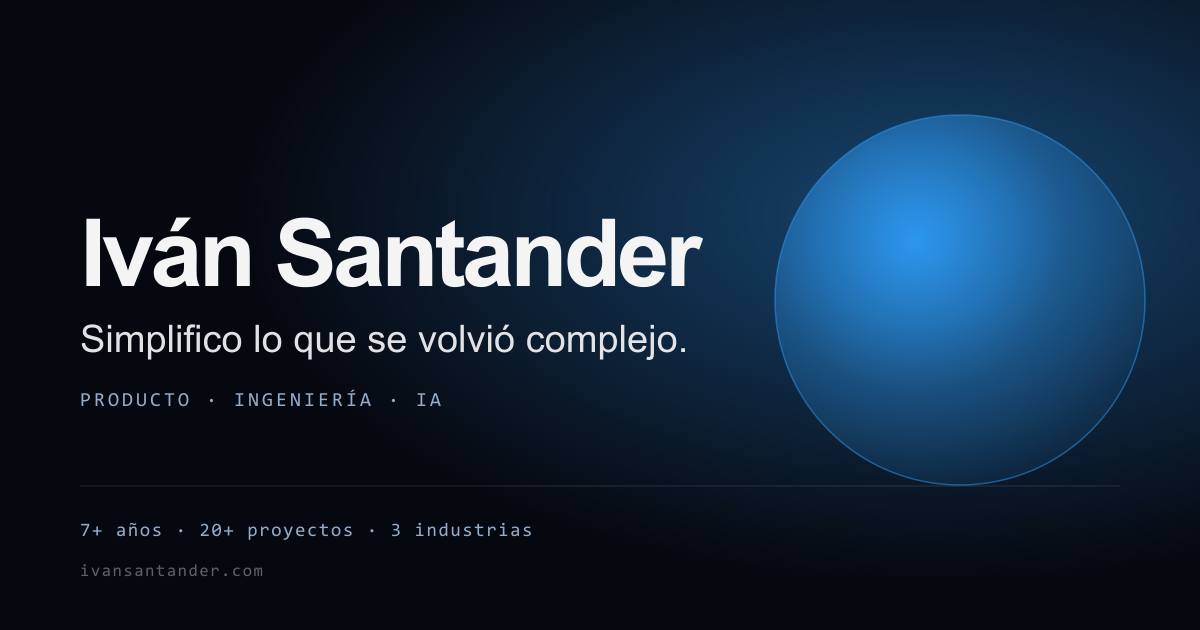
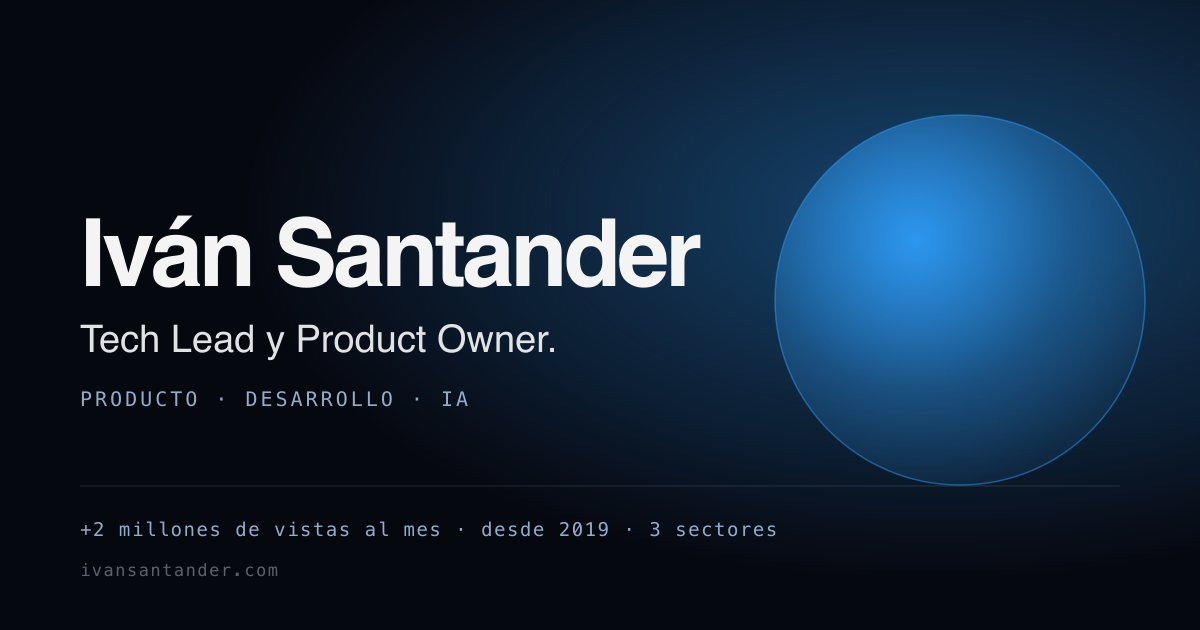
portada: Desarrollo en lugar de Ingeniería; imagen OG igual a la portada

diff --git a/docs/BITACORA.md b/docs/BITACORA.md
@@ -370,3 +370,14 @@ en escala de grises y toman color al pasar el mouse o con foco: juntas, las
 paletas de cada caso se veían revueltas. Fuera "12 casos" del hero y de "Sobre
 mí" (crecerá); en su lugar "3 sectores". "+2 millones" se parte en "+2" y
 "millones de vistas al mes" para que no rompa la fila de cifras.
+
+---
+
+## 2026-11-22 — "Ingeniería" fuera del rol
+
+**Decisión (Iván):** no es ingeniero de título, así que la línea del hero pasa de
+"Producto · Ingeniería · IA" a "Producto · Desarrollo · IA" (EN: "Product ·
+Development · AI"). En la misma pasada, la imagen OG (`gen-og.mjs`) se iguala a la
+portada: frase "Tech Lead y Product Owner." y cifras "+2 millones de vistas al mes ·
+desde 2019 · 3 sectores" (seguía con "Simplifico lo que se volvió complejo." y
+"7+ años · 20+ proyectos · 3 industrias").

diff --git a/site/src/content/pages/home.es.md b/site/src/content/pages/home.es.md
@@ -11,7 +11,7 @@ description: "Tech Lead y Technical Product Owner. Arquitectura, liderazgo técn
 
 **statement:** Tech Lead y Product Owner.
 
-**role:** Producto · Ingeniería · IA
+**role:** Producto · Desarrollo · IA
 
 **lead:**
 Simplifico sistemas en producción que crecieron más rápido que su equipo, sin frenar las entregas. Por fuera del trabajo construyo productos propios.

diff --git a/site/src/content/pages/home.en.md b/site/src/content/pages/home.en.md
@@ -11,7 +11,7 @@ description: "Tech Lead and Technical Product Owner. Architecture, technical lea
 
 **statement:** Tech Lead and Product Owner.
 
-**role:** Product · Engineering · AI
+**role:** Product · Development · AI
 
 **lead:**
 I simplify production systems that grew faster than their team, without slowing delivery. Outside work I build my own products.
